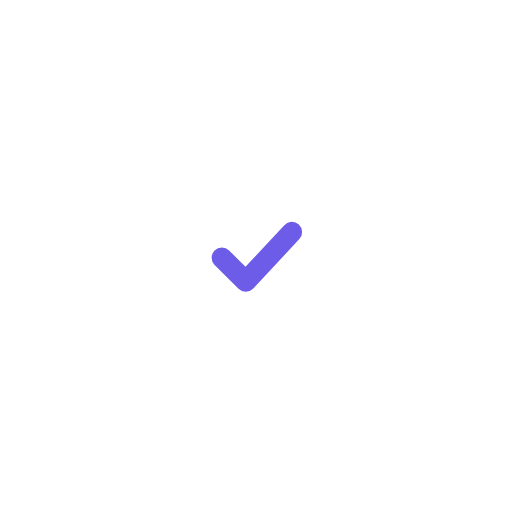
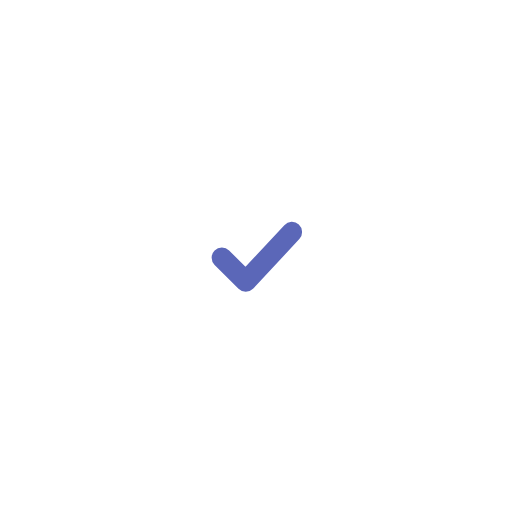
Passer l'app en couleurs pastel douces
- Palette pastel apaisante (clair et sombre) : boutons pastel avec texte
  foncé, accents doux, textes moins contrastés mais lisibles.
- Une teinte de fond par moment : pêche le matin, menthe dans la
  journée, lavande le soir, pour savoir d'un coup d'œil où l'on est.
- Messages, anneau du timer, écran de démarrage et icône adoucis.
- Le mode calme reste disponible pour des couleurs encore plus neutres.

Claude-Session: https://claude.ai/code/session_018S7hXtXEoEYHidKpe1rgZA

Changed region(s): [[0.4062, 0.4375, 0.5938, 0.5938]]

diff --git a/src/lib/theme.ts b/src/lib/theme.ts
@@ -1,65 +1,87 @@
 import { useColorScheme } from 'react-native';
 import type { AgeGroup } from './types';
 
+/**
+ * Palette pastel douce, pensée pour apaiser : fonds clairs légèrement teintés,
+ * couleurs de remplissage pastel avec un texte foncé dessus (doux mais lisible).
+ *
+ *  - primary      : couleur d'accent pour le TEXTE, les liens et les icônes (assez foncée pour être lisible)
+ *  - primaryFill  : fond pastel des boutons principaux, avec `onFill` comme couleur de texte
+ *  - successFill  : fond pastel du bouton « Fait »
+ *  - tints        : fond très léger de chaque moment (matin pêche, journée menthe, soir lavande)
+ */
 const light = {
-  background: '#F7F5FF',
+  background: '#F8F7FB',
   card: '#FFFFFF',
-  text: '#1E1B2E',
-  textMuted: '#6B6880',
-  primary: '#6C5CE7',
-  primaryText: '#FFFFFF',
-  primarySoft: '#E9E5FF',
-  success: '#00B894',
-  successSoft: '#D5F5EC',
-  warning: '#FDCB6E',
-  danger: '#E05656',
-  border: '#E3E0F0',
+  text: '#34344A',
+  textMuted: '#77768A',
+  primary: '#5B67B8',
+  primaryText: '#2A2D52',
+  primarySoft: '#ECEEFB',
+  primaryFill: '#C3CAF5',
+  onFill: '#2A2D52',
+  success: '#7CC4A2',
+  successSoft: '#E5F4EC',
+  successFill: '#BFE6D2',
+  warning: '#F6D7A7',
+  danger: '#B85C5A',
+  dangerSoft: '#F8E1E0',
+  border: '#E8E6F0',
+  tintMatin: '#FDF3E7',
+  tintJournee: '#EDF7F2',
+  tintSoir: '#F1EEFA',
 };
 
 const dark: typeof light = {
-  background: '#14121F',
-  card: '#221F33',
-  text: '#F3F1FF',
-  textMuted: '#A9A5C2',
-  primary: '#8E80FF',
-  primaryText: '#14121F',
-  primarySoft: '#2F2A4F',
-  success: '#2ED3A6',
-  successSoft: '#163A32',
-  warning: '#FDCB6E',
-  danger: '#FF7A7A',
-  border: '#36324D',
+  background: '#1D1C26',
+  card: '#282736',
+  text: '#ECEAF5',
+  textMuted: '#A6A4BA',
+  primary: '#B5BEF5',
+  primaryText: '#1D1C26',
+  primarySoft: '#33354F',
+  primaryFill: '#AEB8EF',
+  onFill: '#1D1C26',
+  success: '#8FD0B1',
+  successSoft: '#22352D',
+  successFill: '#9ED8BC',
+  warning: '#E8C994',
+  danger: '#EBA3A0',
+  dangerSoft: '#3D2A2C',
+  border: '#393849',
+  tintMatin: '#29251F',
+  tintJournee: '#1F2925',
+  tintSoir: '#25232F',
 };
 
-/** Mode calme : couleurs moins saturées, contrastes doux (confort sensoriel, TSA). */
+/** Mode calme : encore moins de couleur (gris doux), pour les jours de surcharge sensorielle. */
 const calmLight: typeof light = {
-  background: '#F5F4F0',
-  card: '#FFFFFF',
-  text: '#2B2A33',
-  textMuted: '#6E6D78',
-  primary: '#56679A',
-  primaryText: '#FFFFFF',
-  primarySoft: '#E5E8F1',
-  success: '#4F8F74',
-  successSoft: '#E1EEE7',
-  warning: '#D9B66A',
-  danger: '#B5524F',
-  border: '#E2E0DA',
+  ...light,
+  background: '#F6F6F4',
+  text: '#3A3A40',
+  textMuted: '#7A7A80',
+  primary: '#5E6A8A',
+  primarySoft: '#ECEEF2',
+  primaryFill: '#D3D9E6',
+  onFill: '#2E3240',
+  success: '#86AE9B',
+  successSoft: '#E8F0EC',
+  successFill: '#D2E4DA',
+  tintMatin: '#F7F4EF',
+  tintJournee: '#F1F5F3',
+  tintSoir: '#F3F2F6',
 };
 
 const calmDark: typeof light = {
-  background: '#1A1A1E',
-  card: '#25252B',
-  text: '#ECEBE6',
-  textMuted: '#A7A6AE',
-  primary: '#9AA8D6',
-  primaryText: '#1A1A1E',
-  primarySoft: '#33384A',
-  success: '#7DBB9F',
-  successSoft: '#24352D',
-  warning: '#D9B66A',
-  danger: '#E08B88',
-  border: '#3A3A42',
+  ...dark,
+  background: '#1C1C20',
+  card: '#26262C',
+  primary: '#AAB4CC',
+  primaryFill: '#9AA4BC',
+  successFill: '#93B8A6',
+  tintMatin: '#24221F',
+  tintJournee: '#1F2422',
+  tintSoir: '#222128',
 };
 
 export type Colors = typeof light;

diff --git a/src/components/ui.tsx b/src/components/ui.tsx
@@ -21,8 +21,11 @@ export function Screen({
   scroll = true,
   edges = ['top'],
   onRefresh,
+  background,
 }: {
   children: ReactNode;
+  /** Fond de l'écran (par défaut : fond du thème). */
+  background?: string;
   scroll?: boolean;
   edges?: ('top' | 'bottom')[];
   /** Active « tirer pour actualiser ». */
@@ -43,7 +46,7 @@ export function Screen({
     />
   ) : undefined;
   return (
-    <SafeAreaView style={{ flex: 1, backgroundColor: colors.background }} edges={edges}>
+    <SafeAreaView style={{ flex: 1, backgroundColor: background ?? colors.background }} edges={edges}>
       {scroll ? (
         <ScrollView contentContainerStyle={styles.screen} keyboardShouldPersistTaps="handled" refreshControl={refreshControl}>
           {children}
@@ -115,10 +118,10 @@ export function Button({
   const { colors, radius, fontScale } = useAppTheme();
   const small = size === 'sm';
   const palette = {
-    primary: { bg: colors.primary, fg: colors.primaryText },
+    primary: { bg: colors.primaryFill, fg: colors.onFill },
     secondary: { bg: colors.primarySoft, fg: colors.primary },
-    success: { bg: colors.success, fg: '#FFFFFF' },
-    danger: { bg: colors.danger, fg: '#FFFFFF' },
+    success: { bg: colors.successFill, fg: colors.onFill },
+    danger: { bg: colors.dangerSoft, fg: colors.danger },
     ghost: { bg: 'transparent', fg: colors.primary },
   }[variant];
   return (
@@ -204,10 +207,10 @@ export function Chip({ label, selected, onPress }: { label: string; selected?: b
       onPress={onPress}
       style={[
         styles.chip,
-        { backgroundColor: selected ? colors.primary : colors.card, borderColor: selected ? colors.primary : colors.border },
+        { backgroundColor: selected ? colors.primaryFill : colors.card, borderColor: selected ? colors.primaryFill : colors.border },
       ]}
     >
-      <Text style={{ color: selected ? colors.primaryText : colors.text, fontWeight: selected ? '700' : '600', fontSize: 15 * fontScale }}>{label}</Text>
+      <Text style={{ color: selected ? colors.onFill : colors.text, fontWeight: selected ? '700' : '600', fontSize: 15 * fontScale }}>{label}</Text>
     </Pressable>
   );
 }
@@ -404,7 +407,7 @@ export function Fab({ onPress, accessibilityLabel }: { onPress: () => void; acce
       style={({ pressed }) => [
         styles.fab,
         {
-          backgroundColor: colors.primary,
+          backgroundColor: colors.primaryFill,
           opacity: pressed ? 0.85 : 1,
           shadowColor: '#000',
           shadowOpacity: 0.18,
@@ -414,7 +417,7 @@ export function Fab({ onPress, accessibilityLabel }: { onPress: () => void; acce
         },
       ]}
     >
-      <Text style={{ color: colors.primaryText, fontSize: 34, fontWeight: '600', marginTop: -2 }}>+</Text>
+      <Text style={{ color: colors.onFill, fontSize: 34, fontWeight: '600', marginTop: -2 }}>+</Text>
     </Pressable>
   );
 }

diff --git a/src/components/RoutineScreen.tsx b/src/components/RoutineScreen.tsx
@@ -26,14 +26,16 @@ export function RoutineScreen({ tab }: { tab: RoutineTab }) {
   if (!user) return null;
 
   const info = tabInfo(tab);
+  // Chaque moment a sa couleur douce : on sait d'un coup d'œil où on est.
+  const tint = { matin: colors.tintMatin, journee: colors.tintJournee, soir: colors.tintSoir }[tab];
   const mine = tasksOfTab(tasks, tab);
   const [now, ...later] = mine.filter((t) => !t.done);
   const done = mine.filter((t) => t.done);
   const timerActive = timer.status === 'running' || timer.status === 'paused';
 
   return (
-    <View style={{ flex: 1, backgroundColor: colors.background }}>
-      <Screen onRefresh={refresh}>
+    <View style={{ flex: 1, backgroundColor: tint }}>
+      <Screen onRefresh={refresh} background={tint}>
         <View style={styles.header}>
           <View style={{ flex: 1, gap: 2 }}>
             <Txt variant="title">
@@ -59,11 +61,11 @@ export function RoutineScreen({ tab }: { tab: RoutineTab }) {
 
         {timerActive && (
           <Pressable onPress={() => router.navigate('/timer')} accessibilityRole="button" accessibilityLabel="Voir le timer en cours">
-            <Card style={[styles.timerBanner, { backgroundColor: colors.primary }]}>
-              <Text style={[styles.timerText, { color: colors.primaryText, flex: 1 }]} numberOfLines={1}>
+            <Card style={[styles.timerBanner, { backgroundColor: colors.primaryFill }]}>
+              <Text style={[styles.timerText, { color: colors.onFill, flex: 1 }]} numberOfLines={1}>
                 ⏳ {timer.label || 'Timer'}
               </Text>
-              <Text style={[styles.timerText, { color: colors.primaryText, fontVariant: ['tabular-nums'] }]}>
+              <Text style={[styles.timerText, { color: colors.onFill, fontVariant: ['tabular-nums'] }]}>
                 {timer.status === 'paused' ? 'pause' : formatDuration(timer.remainingSec)}
               </Text>
             </Card>

diff --git a/src/components/Feedback.tsx b/src/components/Feedback.tsx
@@ -63,10 +63,10 @@ export function FeedbackProvider({ children }: { children: ReactNode }) {
           accessibilityLiveRegion="polite"
           style={[
             styles.toast,
-            { bottom: insets.bottom + 80, backgroundColor: colors.text, borderRadius: radius },
+            { bottom: insets.bottom + 80, backgroundColor: colors.primaryFill, borderRadius: radius },
           ]}
         >
-          <Text style={[styles.toastText, { color: colors.background }]}>{current.message}</Text>
+          <Text style={[styles.toastText, { color: colors.onFill }]}>{current.message}</Text>
           {current.undo && (
             <Pressable
               accessibilityRole="button"
@@ -76,9 +76,9 @@ export function FeedbackProvider({ children }: { children: ReactNode }) {
                 current.undo?.();
                 setCurrent(null);
               }}
-              style={[styles.undo, { borderColor: colors.background }]}
+              style={[styles.undo, { borderColor: colors.onFill }]}
             >
-              <Text style={[styles.undoText, { color: colors.background }]}>Annuler</Text>
+              <Text style={[styles.undoText, { color: colors.onFill }]}>Annuler</Text>
             </Pressable>
           )}
         </View>

diff --git a/scripts/build-web-single.js b/scripts/build-web-single.js
@@ -22,9 +22,9 @@ js = js.replace(/<\/script/gi, '<\\/script');
 const html = `<title>Focus</title>
 <meta name="description" content="Focus : tâches, timer et rappels pour les personnes TDAH et TSA.">
 <style>
-  :root { --bg: #F7F5FF; }
-  @media (prefers-color-scheme: dark) { :root:not([data-theme="light"]) { --bg: #14121F; color-scheme: dark; } }
-  :root[data-theme="dark"] { --bg: #14121F; color-scheme: dark; }
+  :root { --bg: #F8F7FB; }
+  @media (prefers-color-scheme: dark) { :root:not([data-theme="light"]) { --bg: #1D1C26; color-scheme: dark; } }
+  :root[data-theme="dark"] { --bg: #1D1C26; color-scheme: dark; }
   html { box-sizing: border-box; height: 100%; }
   body { height: 100%; overflow: hidden; background: var(--bg); }
   #root { display: flex; height: 100%; flex: 1; }

diff --git a/src/app/welcome.tsx b/src/app/welcome.tsx
@@ -85,12 +85,12 @@ export default function Welcome() {
                     styles.answer,
                     {
                       borderRadius: radius,
-                      backgroundColor: selected ? colors.primary : colors.card,
+                      backgroundColor: selected ? colors.primaryFill : colors.card,
                       opacity: pressed ? 0.8 : 1,
                     },
                   ]}
                 >
-                  <Text style={{ fontSize: 19 * fontScale, fontWeight: '700', color: selected ? colors.primaryText : colors.text }}>
+                  <Text style={{ fontSize: 19 * fontScale, fontWeight: '700', color: selected ? colors.onFill : colors.text }}>
                     {o.label}
                   </Text>
                 </Pressable>

diff --git a/src/app/timer.tsx b/src/app/timer.tsx
@@ -105,7 +105,7 @@ export default function TimerScreen() {
 
       {timer.warning && (
         <Card style={{ backgroundColor: colors.warning, borderColor: colors.warning }}>
-          <Txt style={{ fontWeight: '800', textAlign: 'center', color: '#1E1B2E' }}>⏳ Plus qu’une minute : prépare-toi à finir.</Txt>
+          <Txt style={{ fontWeight: '800', textAlign: 'center', color: colors.onFill }}>⏳ Plus qu’une minute : prépare-toi à finir.</Txt>
         </Card>
       )}
 

diff --git a/src/components/ProgressRing.tsx b/src/components/ProgressRing.tsx
@@ -30,7 +30,7 @@ export function ProgressRing({
           cx={size / 2}
           cy={size / 2}
           r={r}
-          stroke={color ?? colors.primary}
+          stroke={color ?? colors.primaryFill}
           strokeWidth={stroke}
           fill="none"
           strokeLinecap="round"
